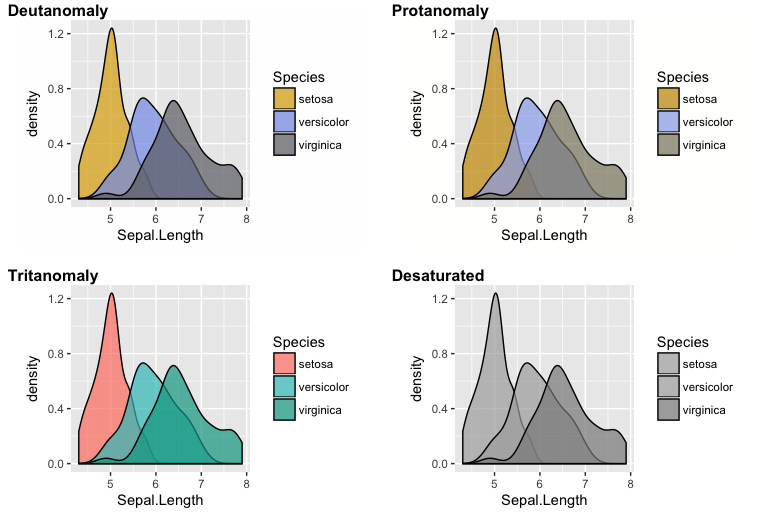
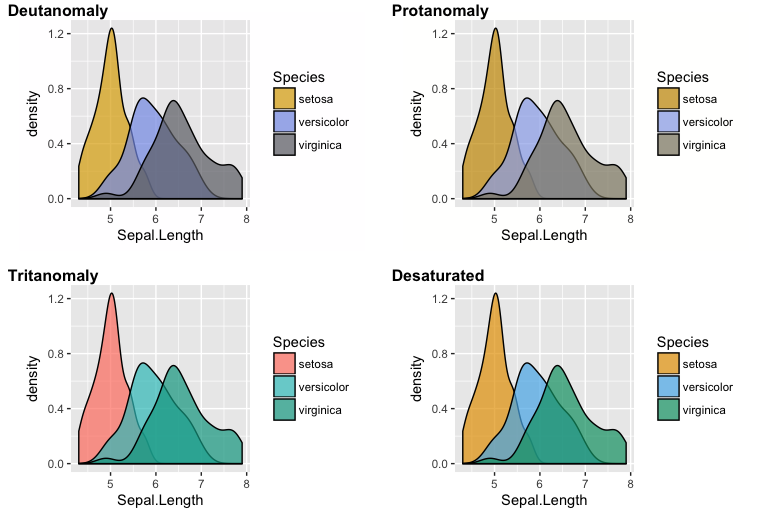
adapt to fixes in official colorspace package.

Changed region(s): [[0.5938, 0.5747, 0.8125, 0.8771], [0.8438, 0.6654, 0.9062, 0.8166]]

diff --git a/README.md b/README.md
@@ -10,10 +10,10 @@ Simulate colorblindness in production-ready R figures. Written by Claire D. McWh
 Installation
 ============
 
-This package depends on the development version of **cowplot** and on a patched version of **colorspace**. Please install those packages first:
+This package depends on the development versions of **cowplot** and **colorspace**. Please install those packages first:
 
     devtools::install_github("wilkelab/cowplot")
-    devtools::install_github("clauswilke/colorspace")
+    install.packages("colorspace", repos = "http://R-Forge.R-project.org")
 
 Then install **colorblindr**:
 
